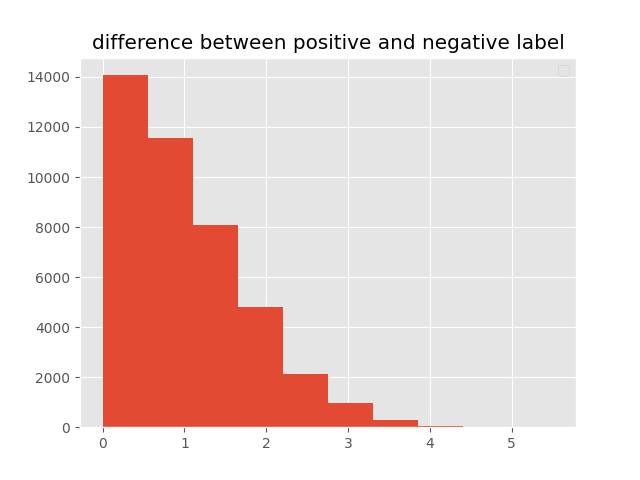
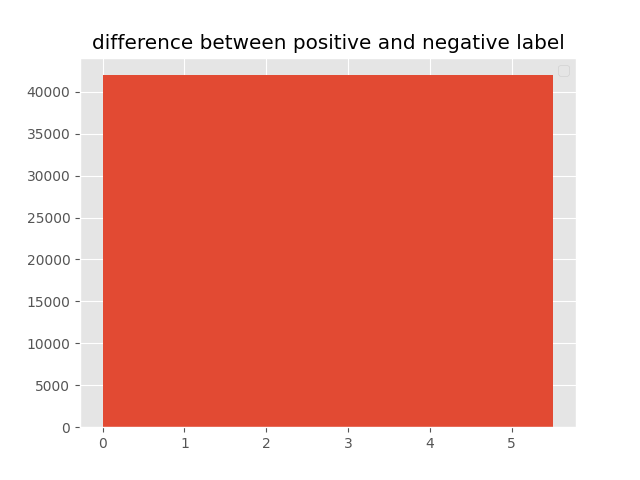
forgot index

diff --git a/plot_sentiment.py b/plot_sentiment.py
@@ -42,10 +42,10 @@ for i, row in data.iterrows():
 data.drop(data.index[delete_rows]) # delete rows with nan indexes
 
 def plot_uncertainty_diff():
-    w = 4
+    w = 40
     print(label_diff)
     bins = math.ceil((np.max(labels) - np.min(labels))/w) 
-    plt.hist(label_diff)#, bins=bins)
+    plt.hist(label_diff, bins=bins)
     plt.legend()
     plt.title('difference between positive and negative label')
     plt.savefig('fig/uncertainty_diff.png')
